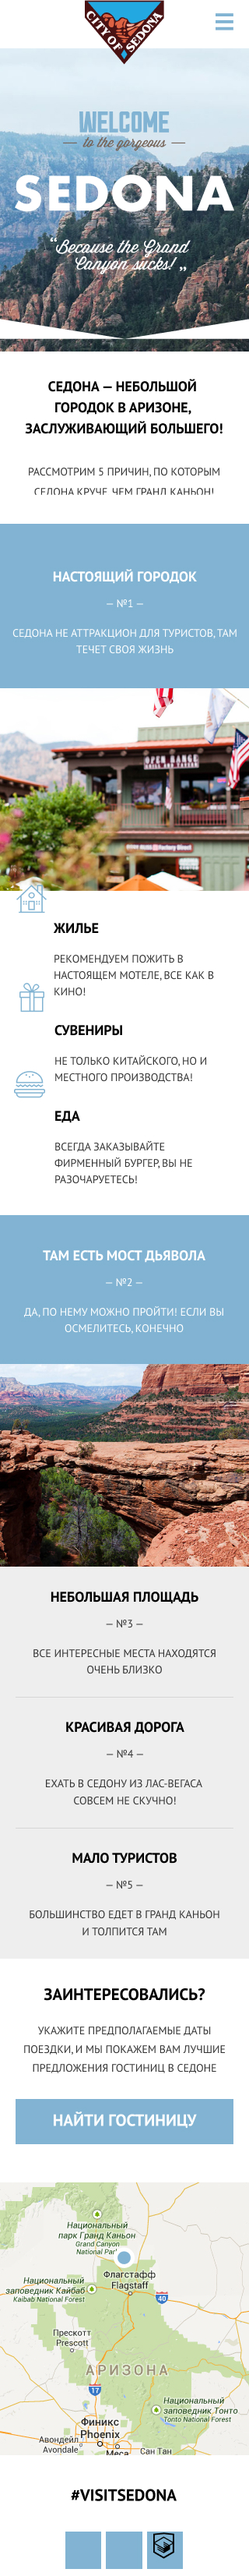
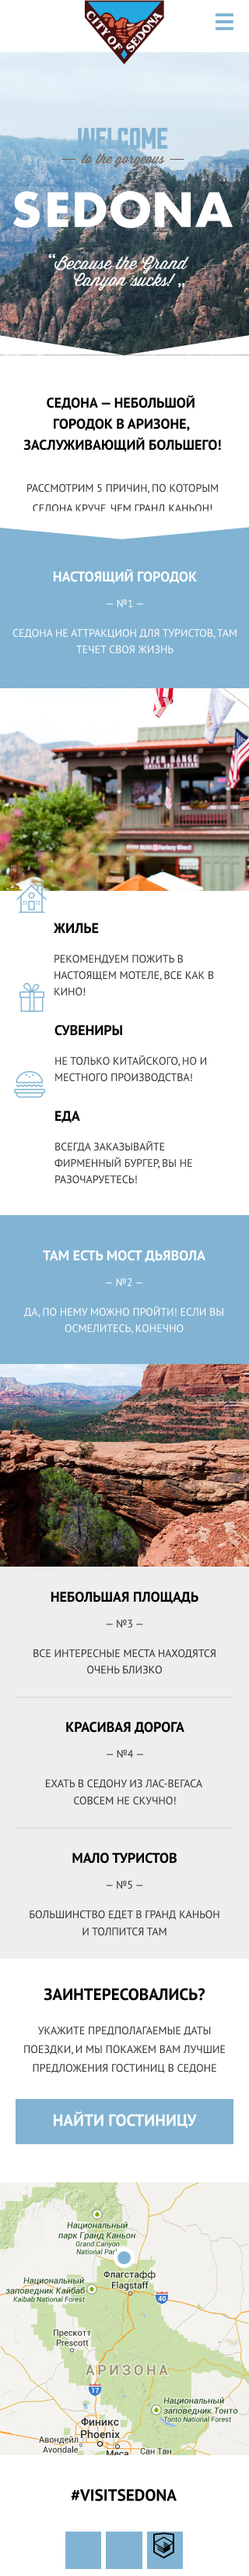
исправляется info--triangle

Changed region(s): [[0.0, 0.0312, 1.0, 0.2182]]

diff --git a/docs/css/main.css b/docs/css/main.css
@@ -1,1 +1,1 @@
-*{margin:0;padding:0;box-sizing:border-box}img{vertical-align:top}@font-face{font-family:Roboto;font-family:'PT Sans',sans-serif;src:url(../fonts/Roboto/Roboto-Regular.ttf) format("truetype")}body{font:400 16px/24px "PT Sans",Roboto,Arial,Helvetica,sans-serif;color:#000;background-color:#fff}a{color:#000;text-decoration:none}.body__lock{overflow:hidden}.body--lock{position:fixed;overflow-y:hidden;top:0;right:0;left:0;bottom:0}.container{min-width:320px;max-width:1200px;margin-left:auto;margin-right:auto;padding-left:16px;padding-right:16px}.header__top{background-color:#fff;padding-bottom:60px}.header__container{display:flex}@media (min-width:768px){.header__top{padding-top:0;padding-bottom:10px}.header__container{padding:0;position:relative;display:block}}.header__nav{position:fixed;top:0;left:0;right:0;background-color:#81b3d2;z-index:2;transition:transform .2s;transform:translateX(-100%);pointer-events:none;opacity:0;display:flex;align-items:center;overflow-y:auto}@media (min-width:768px){.header__nav{position:static;opacity:1;transform:none;background-color:#fff;padding-top:0;pointer-events:auto}.header__burger{display:none}}.header__nav--active{transform:translateX(0);opacity:1;pointer-events:auto}.header__logo{z-index:1;position:absolute;left:50%;transform:translate(-50%);padding-left:0}.header__burger{margin-left:auto;z-index:3;position:absolute;top:16px;right:16px}.header__container-center{position:relative;padding:78px 0 90px;background:url(../img/back-mobile-x2.jpg) bottom right/cover no-repeat #81b3d2}@media (min-width:1200px){.header__container-center{padding:80px 0 87px}}.header__container-center:after{content:" ";left:0;bottom:0;right:0;position:absolute;height:57px;width:100%;background:url(../img/intro-triangle.svg) center center/cover no-repeat;margin-bottom:-1px}.header__back{display:flex;justify-content:center}.nav{display:flex;flex-direction:column;align-items:center;text-align:center}.nav:before{content:' ';position:absolute;right:0;left:0;bottom:0;height:12px;background:linear-gradient(180deg,rgba(0,0,0,0) 0,rgba(0,0,0,.2) 100%)}.nav__list{list-style-type:none;width:100%}.nav__item{position:relative;padding:10px 10px 5px;text-align:center}@media (min-width:768px){.header__container-center{background-image:-webkit-image-set(url("../img/back-desktop-x1.jpg") 1x, url("../img/back-desktop-x2.webp") 2x);background-image:image-set(url("../img/back-desktop-x1.jpg") 1x, url("../img/back-desktop-x2.webp") 2x)}.header__img{height:auto;min-width:461px}.nav:before{background:0 0}.nav__list{display:flex;justify-content:flex-start}.nav__item{padding:15px 10px 5px;box-shadow:none;width:20%}}.nav__item:not(:last-child):before{content:' ';position:absolute;right:0;left:0;bottom:0;height:2px;background:linear-gradient(rgba(1,1,1,.2) 50%,rgba(255,255,255,.2) 0)}@media (min-width:768px){.nav__item:not(:last-child):before{background:0 0}.nav__item:nth-child(3){margin-left:20%}}.nav__item:hover{background-color:#669ec0}@media (min-width:768px){.nav__item:hover{background:0 0}}.nav__item:focus{background-color:#5496bd}.nav__link{display:block;color:#fff;font:700 18px/40px "PT Sans",Roboto,Arial,Helvetica,sans-serif}.nav__link:focus{opacity:.3}@media (min-width:768px){.nav__item:focus{background:0 0}.nav__link{color:#000;font:700 14px/26px "PT Sans",Roboto,Arial,Helvetica,sans-serif}.nav__link:hover{color:#fff}.nav__link:focus{color:#000;opacity:.3}.nav__link--active{color:#766357}.nav__link--active:hover{color:#604e43}.nav__link--active:active{color:#766357;opacity:.3}}.burger{width:25px;height:25px;background-color:transparent;border:0;cursor:pointer}.burger__line{position:absolute;width:23px;height:4px;background-color:#81b3d2;top:50%;margin-top:-1px;left:0;transition:transform .2s,opacity .2s}.burger__line:first-child{transform:translateY(-8px)}.burger__line:last-child{transform:translateY(8px)}.burger--active .burger__line:first-child{transform:translateY(0) rotate(45deg);background-color:#fff}.burger--active .burger__line:nth-child(2){background-color:transparent;opacity:0}.burger--active .burger__line:last-child{transform:translateY(0) rotate(-45deg);background-color:#fff}.burger:hover{opacity:.6}.burger:focus{opacity:.3}.reasons__container{padding:0}.reasons__top{padding:0 16px}.reasons__title{margin-top:42px;color:#000;text-align:center;margin-bottom:31px;padding:0 5px}@media (min-width:768px){.reasons__title{margin-bottom:31px;padding:0 124px;margin-top:45px}}.reasons__subtitle{color:#000;text-align:center;margin-bottom:28px}@media (min-width:768px){.reasons__subtitle{margin-bottom:52px}}@media (min-width:1200px){.reasons__title{margin-top:55px;padding:0 358px}.reasons__subtitle{margin-bottom:42px}}.title-h2{font:700 19px/26px "PT Sans",Roboto,Arial,Helvetica,sans-serif}.info--triangle{position:relative}.info--triangle:after{content:" ";top:-22px;left:0;right:0;position:absolute;height:37px;width:320px;background:url(../img/intro-triangle-blue.svg) center center/cover no-repeat;margin:0 auto}.info__item{padding:10px 0;color:#fff;background-color:#81b3d2;text-align:center;flex-grow:1}@media (min-width:768px){.reasons__info{margin-bottom:60px;height:257px}.title-h2{font:700 21px/26px "PT Sans",Roboto,Arial,Helvetica,sans-serif}.info--right{display:grid;grid-template-columns:repeat(2,1fr)}.info--triangle:after{display:none}.info__item{width:66%;padding:10px 20px 10px 21px}}@media (min-width:1200px){.info__item{padding:10px 55px 10px 58px}}.info__name{padding-top:45px;padding-bottom:10px;font:700 18px/26px "PT Sans",Roboto,Arial,Helvetica,sans-serif}@media (min-width:768px){.info__name{padding-top:30px;padding-bottom:12px;font:700 21px/26px "PT Sans",Roboto,Arial,Helvetica,sans-serif}}@media (min-width:1200px){.info__name{padding:38px 38px 12px 40px}}.info__number{padding-bottom:17px;font:400 14px/21px "PT Sans",Roboto,Arial,Helvetica,sans-serif}@media (min-width:768px){.info__number{padding-bottom:23px}}@media (min-width:1200px){.info__number{padding-bottom:24px}}.info__desc{padding-bottom:29px;font:400 14px/21px "PT Sans",Roboto,Arial,Helvetica,sans-serif}.info__img{display:block;width:100%;background-color:#81b3d2}@media (min-width:768px){.info__img{position:absolute;width:67%;object-fit:cover;right:0;bottom:0;top:0;height:257px}}.subtitle{font:400 14px/26px "PT Sans",Roboto,Arial,Helvetica,sans-serif}
+*{margin:0;padding:0;box-sizing:border-box}img{vertical-align:top}@font-face{font-family:Roboto;font-family:'PT Sans',sans-serif;src:url(../fonts/Roboto/Roboto-Regular.ttf) format("truetype")}body{font:400 16px/24px "PT Sans",Roboto,Arial,Helvetica,sans-serif;color:#000;background-color:#fff}a{color:#000;text-decoration:none}.body__lock{overflow:hidden}.body--lock{position:fixed;overflow-y:hidden;top:0;right:0;left:0;bottom:0}.container{min-width:320px;max-width:1200px;margin-left:auto;margin-right:auto;padding-left:16px;padding-right:16px}.header__top{background-color:#fff;padding-bottom:66px}.header__container{display:flex}@media (min-width:768px){.header__top{padding-top:0;padding-bottom:10px}.header__container{padding:0;position:relative;display:block}}.header__nav{position:fixed;top:0;left:0;right:0;background-color:#81b3d2;z-index:2;transition:transform .2s;transform:translateX(-100%);pointer-events:none;opacity:0;display:flex;align-items:center;overflow-y:auto}@media (min-width:768px){.header__nav{position:static;opacity:1;transform:none;background-color:#fff;padding-top:0;pointer-events:auto}.header__burger{display:none}}.header__nav--active{transform:translateX(0);opacity:1;pointer-events:auto}.header__logo{z-index:1;position:absolute;left:50%;transform:translate(-50%);padding-left:0}.header__burger{margin-left:auto;z-index:3;position:absolute;top:16px;right:16px}.header__container-center{position:relative;padding:98px 0 76px;background:url(../img/back-mobile-x2.jpg) bottom right/cover no-repeat #81b3d2}@media (min-width:768px){.header__container-center{padding:77px 0 90px;background-image:-webkit-image-set(url("../img/back-desktop-x1.jpg") 1x, url("../img/back-desktop-x2.webp") 2x);background-image:image-set(url("../img/back-desktop-x1.jpg") 1x, url("../img/back-desktop-x2.webp") 2x)}.header__img{height:auto;min-width:461px}}@media (min-width:1200px){.header__container-center{padding:80px 0 87px}}.header__container-center:after{content:" ";left:0;bottom:0;right:0;position:absolute;height:57px;width:100%;background:url(../img/intro-triangle.svg) center center/cover no-repeat;margin-bottom:-1px}.header__back{display:flex;justify-content:center}.nav{display:flex;flex-direction:column;align-items:center;text-align:center}.nav:before{content:' ';position:absolute;right:0;left:0;bottom:0;height:12px;background:linear-gradient(180deg,rgba(0,0,0,0) 0,rgba(0,0,0,.2) 100%)}.nav__list{list-style-type:none;width:100%}.nav__item{position:relative;padding:10px 10px 5px;text-align:center}@media (min-width:768px){.nav:before{background:0 0}.nav__list{display:flex;justify-content:flex-start}.nav__item{padding:15px 10px 5px;box-shadow:none;width:20%}}.nav__item:not(:last-child):before{content:' ';position:absolute;right:0;left:0;bottom:0;height:2px;background:linear-gradient(rgba(1,1,1,.2) 50%,rgba(255,255,255,.2) 0)}@media (min-width:768px){.nav__item:not(:last-child):before{background:0 0}.nav__item:nth-child(3){margin-left:20%}}.nav__item:hover{background-color:#669ec0}@media (min-width:768px){.nav__item:hover{background:0 0}}.nav__item:focus{background-color:#5496bd}.nav__link{display:block;color:#fff;font:700 18px/40px "PT Sans",Roboto,Arial,Helvetica,sans-serif}.nav__link:focus{opacity:.3}@media (min-width:768px){.nav__item:focus{background:0 0}.nav__link{color:#000;font:700 14px/26px "PT Sans",Roboto,Arial,Helvetica,sans-serif}.nav__link:hover{color:#fff}.nav__link:focus{color:#000;opacity:.3}.nav__link--active{color:#766357}.nav__link--active:hover{color:#604e43}.nav__link--active:active{color:#766357;opacity:.3}}.burger{width:25px;height:25px;background-color:transparent;border:0;cursor:pointer}.burger__line{position:absolute;width:23px;height:4px;background-color:#81b3d2;top:50%;margin-top:-1px;left:0;transition:transform .2s,opacity .2s}.burger__line:first-child{transform:translateY(-8px)}.burger__line:last-child{transform:translateY(8px)}.burger--active .burger__line:first-child{transform:translateY(0) rotate(45deg);background-color:#fff}.burger--active .burger__line:nth-child(2){background-color:transparent;opacity:0}.burger--active .burger__line:last-child{transform:translateY(0) rotate(-45deg);background-color:#fff}.burger:hover{opacity:.6}.burger:focus{opacity:.3}.reasons__container{padding:0}.reasons__top{padding:10px 7px 27px}@media (min-width:768px){.reasons__top{padding:10px 7px}}.reasons__title{margin-top:39px;color:#000;text-align:center;margin-bottom:32px;padding:0 10px}@media (min-width:768px){.reasons__title{margin-bottom:31px;padding:0 124px;margin-top:35px}.reasons__subtitle{margin-bottom:44px}}@media (min-width:1200px){.reasons__title{margin-top:46px;padding:0 358px}.reasons__subtitle{margin-bottom:33px}}.reasons__subtitle{padding:0 10px;color:#000;text-align:center}.title-h2{font:700 19px/26px "PT Sans",Roboto,Arial,Helvetica,sans-serif}@media (min-width:768px){.reasons__info{margin-bottom:60px;height:257px}.title-h2{font:700 21px/26px "PT Sans",Roboto,Arial,Helvetica,sans-serif}.info--right{display:grid;grid-template-columns:repeat(2,1fr)}}.info--triangle{position:relative;background-color:#81b3d2;height:88px;padding-top:60px}.info--triangle:after{content:" ";top:0;left:0;right:0;bottom:0;position:absolute;width:100%;background:url(../img/intro-triangle-blue.svg) center center/cover no-repeat;margin-top:-1px}@media (min-width:768px){.info--triangle{padding-top:0;height:auto}.info--triangle:after{display:none}}.info__item{padding:10px 0;color:#fff;background-color:#81b3d2;text-align:center;flex-grow:1}@media (min-width:768px){.info__item{width:66%;padding:10px 20px 16px 21px}}@media (min-width:1200px){.info__item{padding:10px 55px 27px 58px}}.info__name{padding-top:45px;padding-bottom:10px;font:700 18px/26px "PT Sans",Roboto,Arial,Helvetica,sans-serif}@media (min-width:768px){.info__name{padding-top:30px;padding-bottom:12px;font:700 21px/26px "PT Sans",Roboto,Arial,Helvetica,sans-serif}}@media (min-width:1200px){.info__name{padding:38px 38px 12px 40px}}.info__number{padding-bottom:17px;font:400 14px/21px "PT Sans",Roboto,Arial,Helvetica,sans-serif}@media (min-width:768px){.info__number{padding-bottom:23px}}@media (min-width:1200px){.info__number{padding-bottom:24px}}.info__desc{max-width:320px;margin:0 auto;padding-bottom:29px;font:400 14px/21px "PT Sans",Roboto,Arial,Helvetica,sans-serif}.info__img{display:block;width:100%;background-color:#81b3d2}@media (min-width:768px){.info__img{position:absolute;width:67%;object-fit:cover;right:0;bottom:0;top:0;height:255px}}.subtitle{font:400 14px/26px "PT Sans",Roboto,Arial,Helvetica,sans-serif}

diff --git a/app/scss/blocks/info.scss b/app/scss/blocks/info.scss
@@ -6,18 +6,24 @@
 }
 .info--triangle {
   position: relative;
+  background-color: #81b3d2;
+  height: 88px;
+  padding-top: 60px;
+  @include media($md) {
+    padding-top: 0;
+    height: auto;
+  }
 }
 .info--triangle:after {
   content: " ";
-  top: -22px;
+  top: 0;
   left: 0;
   right: 0;
+  bottom: 0;
   position: absolute;
-  height: 37px;
-  width: 320px;
+  width: 100%;
   background: url(../img/intro-triangle-blue.svg) center center/cover no-repeat;
   margin-top: -1px;
-  margin: 0 auto;
   @include media($md) {
     display: none;
   }
@@ -30,10 +36,10 @@
   flex-grow: 1;
   @include media($md) {
     width: 66%;
-    padding: 10px 20px 10px 21px;
+    padding: 10px 20px 16px 21px;
   }
   @include media($lg) {
-    padding: 10px 55px 10px 58px;
+    padding: 10px 55px 27px 58px;
   }
 }
 .info__name {
@@ -60,6 +66,8 @@
   }
 }
 .info__desc {
+  max-width: 320px;
+  margin: 0 auto;
   padding-bottom: 29px;
   @include font(14px, 21px, 400);
 }
@@ -74,7 +82,7 @@
     right: 0;
     bottom: 0;
     top: 0;
-    height: 257px;
+    height: 255px;
   }
   @include media($lg) {
   }

diff --git a/app/scss/blocks/reasons.scss b/app/scss/blocks/reasons.scss
@@ -2,33 +2,36 @@
   padding: 0;
 }
 .reasons__top {
-  padding: 0 16px;
+  padding: 10px 7px 27px;
+  @include media($md) {
+    padding: 10px 7px;
+  }
 }
 .reasons__title {
-  margin-top: 42px;
+  margin-top: 39px;
   color: $brand-color;
   text-align: center;
-  margin-bottom: 31px;
-  padding: 0 5px;
+  margin-bottom: 32px;
+  padding: 0 10px;
   @include media($md) {
     margin-bottom: 31px;
     padding: 0 124px;
-    margin-top: 45px;
+    margin-top: 35px;
   }
   @include media($lg) {
-    margin-top: 55px;
+    margin-top: 46px;
     padding: 0 358px;
   }
 }
 .reasons__subtitle {
+  padding: 0 10px;
   color: $brand-color;
   text-align: center;
-  margin-bottom: 28px;
   @include media($md) {
-    margin-bottom: 52px;
+    margin-bottom: 44px;
   }
   @include media($lg) {
-    margin-bottom: 42px;
+    margin-bottom: 33px;
   }
 }
 .reasons__info {

diff --git a/app/scss/blocks/header.scss b/app/scss/blocks/header.scss
@@ -1,6 +1,6 @@
 .header__top {
   background-color: $body-bg;
-  padding-bottom: 60px;
+  padding-bottom: 66px;
   @include media($md) {
     padding-top: 0;
     padding-bottom: 10px;
@@ -62,10 +62,11 @@
 }
 .header__container-center {
   position: relative;
-  padding: 78px 0 90px;
+  padding: 98px 0 76px;
   background: url("../img/back-mobile-x2.jpg") bottom right/ cover no-repeat;
   background-color: $nav-bg;
   @include media($md) {
+    padding: 77px 0 90px;
     background-image: -webkit-image-set(
       url("../img/back-desktop-x1.jpg") 1x,
       url("../img/back-desktop-x2.webp") 2x
@@ -89,6 +90,7 @@
   width: 100%;
   background: url(../img/intro-triangle.svg) center center/ cover no-repeat;
   margin-bottom: -1px;
+  
 }
 .header__back {
   display: flex;
